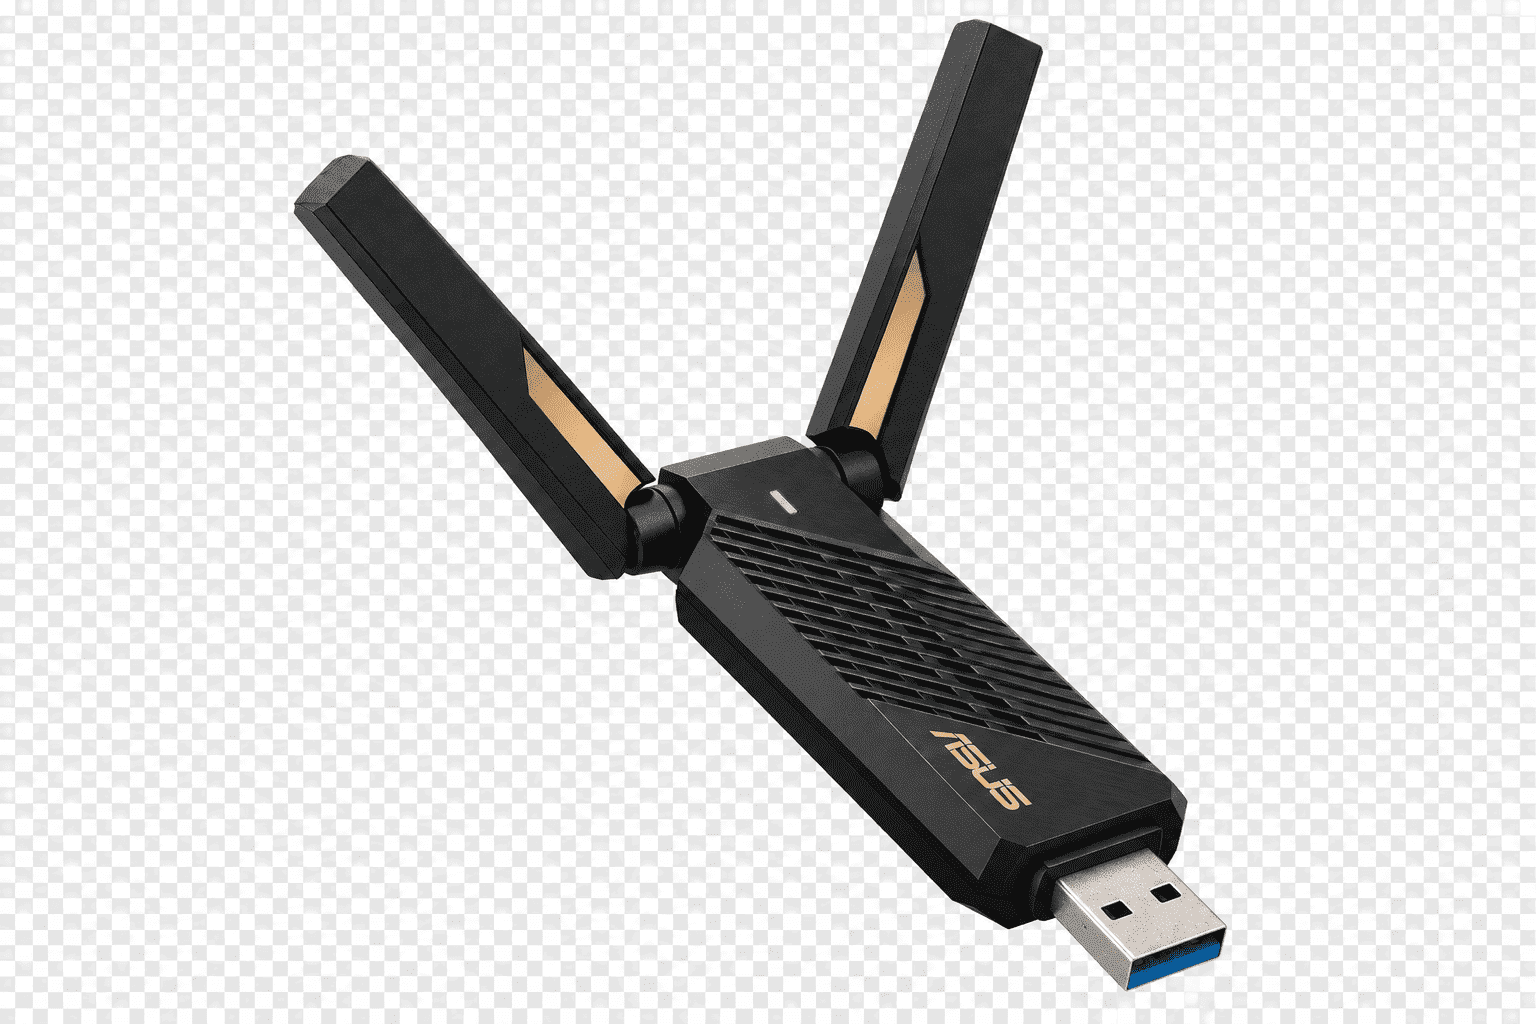
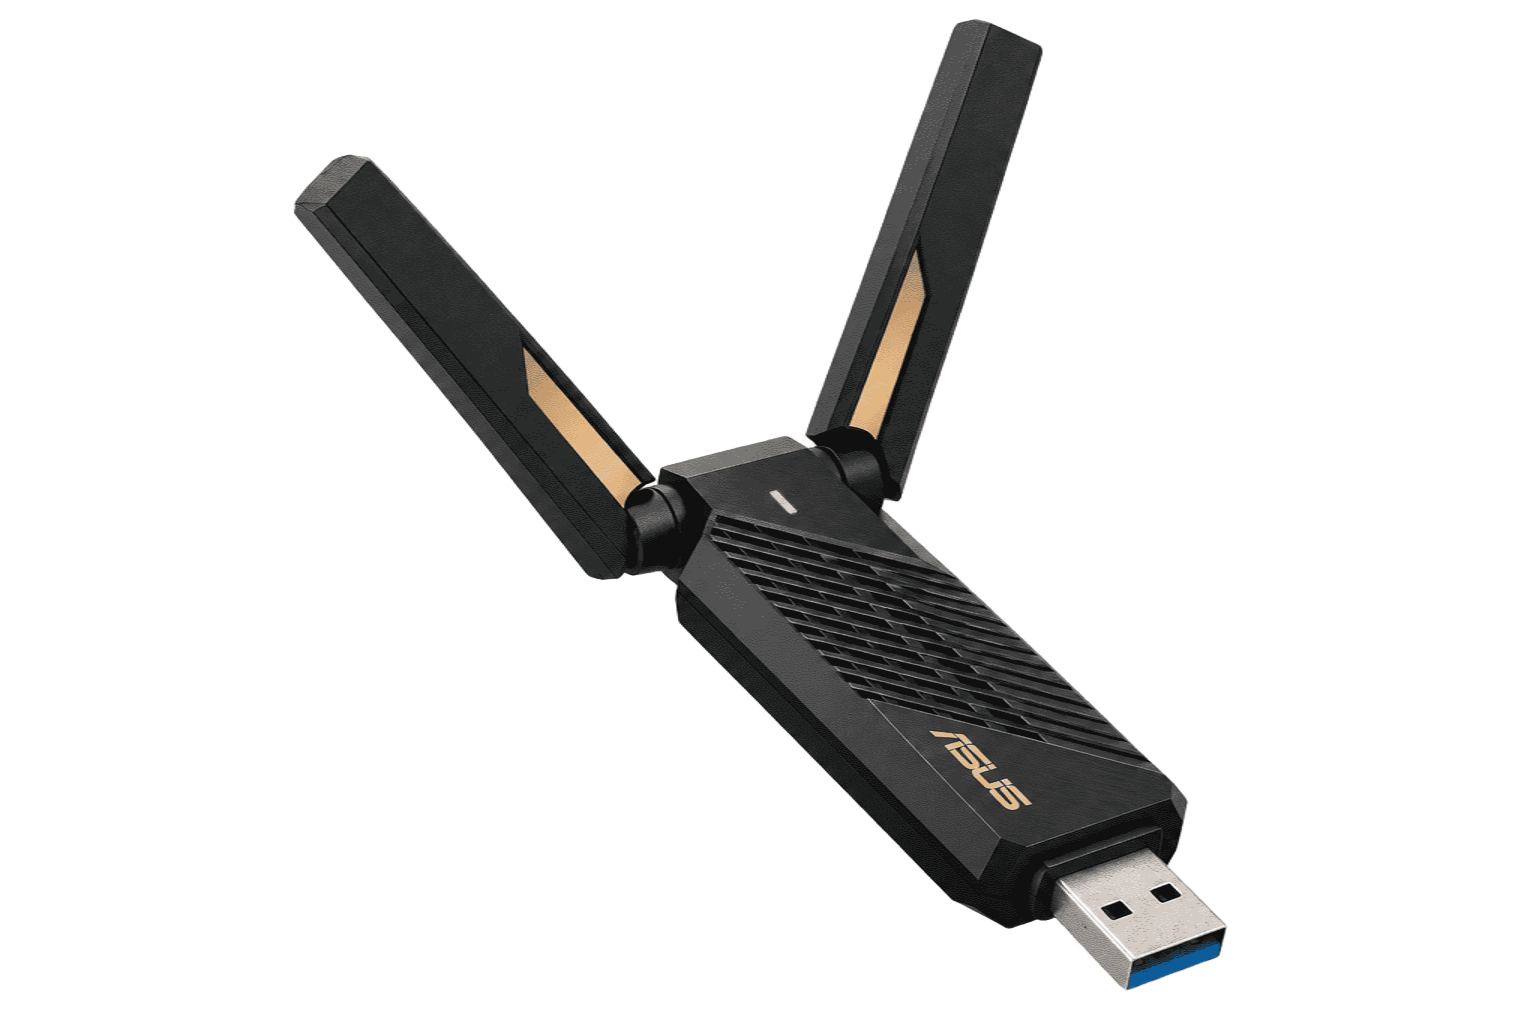
Se modifican imagenes sin fondo

Changed region(s): [[0.0, 0.0, 1.0, 1.0], [0.625, 0.7188, 0.6562, 0.7812]]

diff --git a/catalogo/utils/productos.js b/catalogo/utils/productos.js
@@ -14,8 +14,8 @@ const product1 = {
     descripcion: "Procesador de 6 núcleos y 12 hilos con arquitectura Zen 4 (3.8 GHz a 5.1 GHz), TDP de 65 W, caché L3 de 32 MB y gráficos Radeon integrados.",
     imagenes: [
         "/res/productos/Procesador AMD Ryzen 5 7600 [AMD] VF.png",
-        "/res/productos/",
-        "/res/productos/"
+        "/res/productos/Procesador AMD Ryzen 5 7600 [AMD] VL.png",
+        "/res/productos/Procesador AMD Ryzen 5 7600 [AMD] VP.png"
     ],
     marca: "AMD",
     modelo: "Ryzen 5 7600 (100-100001015BOX)",
@@ -32,8 +32,8 @@ const product2 = {
     descripcion: "Tarjeta gráfica con 8 GB GDDR6, 3,072 núcleos CUDA y compatibilidad con DLSS 3. Sistema de ventilación Axial-tech y modo 0dB.",
     imagenes: [
         "/res/productos/Tarjeta de video ASUS Dual GeForce RTX 4060 8GB [ASUS] VF.png",
-        "/res/productos/",
-        "/res/productos/"
+        "/res/productos/Tarjeta de video ASUS Dual GeForce RTX 4060 8GB [ASUS] VL.png",
+        "/res/productos/Tarjeta de video ASUS Dual GeForce RTX 4060 8GB [ASUS] VP.png"
     ],
     marca: "ASUS",
     modelo: "Dual GeForce RTX 4060 8GB (DUAL-RTX4060-8G)",
@@ -49,8 +49,8 @@ const product3 = {
     descripcion: "Módulo DDR5 a 5,200 MT/s con disipador térmico de perfil bajo. Soporta perfiles de overclocking Intel XMP 3.0 y AMD EXPO.",
     imagenes: [
         "/res/productos/Memoria RAM Kingston FURY Beast 16GB DDR5 [Kingston] VF.png",
-        "/res/productos/",
-        "/res/productos/"
+        "/res/productos/Memoria RAM Kingston FURY Beast 16GB DDR5 [Kingston] VL.png",
+        "/res/productos/Memoria RAM Kingston FURY Beast 16GB DDR5 [Kingston] VP.png"
     ],
     marca: "Kingston",
     modelo: "FURY Beast 16GB DDR5 (KF552C40BB-16)",
@@ -66,8 +66,8 @@ const product4 = {
     descripcion: "Ventilador PWM de 120 mm con velocidad de 550 a 2,100 rpm, iluminación RGB de 8 LEDs y modo Zero RPM para operación silenciosa.",
     imagenes: [
         "/res/productos/Corsair_AF120_vista_frontal.png",
-        "/res/productos/",
-        "/res/productos/"
+        "/res/productos/Corsair_AF120_vista_lateral.png",
+        "/res/productos/Corsair_AF120_vista_90 (1).png"
     ],
     marca: "Corsair",
     modelo: "AF120 RGB Elite (CO-9050153-WW)",
@@ -84,8 +84,8 @@ const product5 = {
     descripcion: "Unidad NVMe PCIe Gen4 x4 con velocidades de hasta 3,500 MB/s de lectura y 2,200 MB/s de escritura. Incluye disipador de calor.",
     imagenes: [
         "/res/productos/SSD ADATA LEGEND 800 1TB [ADATA] VF.png",
-        "/res/productos/",
-        "/res/productos/"
+        "/res/productos/SSD ADATA LEGEND 800 1TB [ADATA] VL.png",
+        "/res/productos/SSD ADATA LEGEND 800 1TB [ADATA] VP.png"
     ],
     marca: "ADATA",
     modelo: "LEGEND 800 1TB (ALEG-800-1000GCS)",
@@ -101,8 +101,8 @@ const product6 = {
     descripcion: "Módulo interno M.2 2230 con Wi-Fi 6E (banda de 6 GHz), velocidad de hasta 2.4 Gbps y Bluetooth integrado.",
     imagenes: [
         "/res/productos/Intel AX210 Wireless Module (1).png",
-        "/res/productos/",
-        "/res/productos/"
+        "/res/productos/Intel AX210 M.2 Card Side Profile (1).png",
+        "/res/productos/Intel AX210 Wireless Card Product Shot (1).png"
     ],
     marca: "Intel",
     modelo: "Wi-Fi 6E AX210 (AX210.NGWG.NV)",
@@ -119,8 +119,8 @@ const product7 = {
     descripcion: "Mouse Bluetooth ambidiestro ultra delgado con clics silenciosos, switch para 3 dispositivos y batería de hasta 24 meses de duración.",
     imagenes: [
         "/res/productos/Centered Graphite Wireless Mouse.png",
-        "/res/productos/",
-        "/res/productos/"
+        "/res/productos/Graphite Wireless Mouse Profile.png",
+        "/res/productos/Matte Graphite Logitech Wireless Mouse.png"
     ],
     marca: "Logitech",
     modelo: "Pebble Mouse 2 M350s",
@@ -136,8 +136,8 @@ const product8= {
     descripcion: "Teclado compacto inalámbrico con retroiluminación inteligente de proximidad, teclas esféricas PerfectStroke y carga por USB-C.",
     imagenes: [
         "/res/productos/Compact Spanish Layout Keyboard.png",
-        "/res/productos/",
-        "/res/productos/"
+        "/res/productos/Low-Profile Mechanical Keyboard Side Profile.png",
+        "/res/productos/Graphite Spanish Layout Wireless Keyboard.png"
     ],
     marca: "Logitech",
     modelo: "MX Keys Mini (920-010499)",
@@ -153,8 +153,8 @@ const product9= {
     descripcion: "Pantalla secundaria portátil Full HD IPS con tratamiento antibacterial, filtro de luz azul y conexión híbrida USB-C/USB-A.",
     imagenes: [
         "/res/productos/ASUS ZenScreen Portable Monitor Mockup (2).png",
-        "/res/productos/",
-        "/res/productos/"
+        "/res/productos/Portable Monitor with Origami Stand.png",
+        "/res/productos/ASUS ZenScreen Portable Monitor Studio Shot (2).png"
     ],
     marca: "ASUS",
     modelo: "ZenScreen MB16ACV",
@@ -170,8 +170,8 @@ const product10 = {
     descripcion: "Adaptador USB dual band WiFi 6 que ofrece hasta 1,800 Mbps de velocidad general con soporte para Beamforming y cifrado WPA3.",
     imagenes: [
         "/res/productos/ASUS Dual-Antenna Wi‑Fi Adapter.png",
-        "/res/productos/",
-        "/res/productos/"
+        "/res/productos/Vertical Black USB Wi‑Fi Adapter with Antenna.png",
+        "/res/productos/ASUS Dual-Antenna Wi‑Fi Adapter (1).png"
     ],
     marca: "ASUS",
     modelo: "USB-AX56 (AX1800)",
@@ -187,8 +187,8 @@ const product11 = {
     descripcion: "Disco portátil ultra resistente con protección contra agua y polvo IP68, carcasa de triple capa a prueba de golpes y sensor de impacto.",
     imagenes: [
         "/res/productos/Disco duro externo ADATA HD710 Pro 2TB [ADATA] VF.png",
-        "/res/productos/",
-        "/res/productos/"
+        "/res/productos/Disco duro externo ADATA HD710 Pro 2TB [ADATA] VL.png",
+        "/res/productos/Disco duro externo ADATA HD710 Pro 2TB [ADATA] VP.png"
     ],
     marca: "ADATA",
     modelo: "HD710 Pro 2TB",
@@ -204,8 +204,8 @@ const product12 = {
     descripcion: "Memoria USB 3.2 Gen 1 liviana con capuchón protector y argolla grande para llavero. Ideal para transferencia rápida de datos.",
     imagenes: [
         "/res/productos/Memoria USB Kingston DataTraveler Exodia 128GB [Kingston] Vf.png",
-        "/res/productos/",
-        "/res/productos/"
+        "/res/productos/Memoria USB Kingston DataTraveler Exodia 128GB [Kingston] VL.png",
+        "/res/productos/Memoria USB Kingston DataTraveler Exodia 128GB [Kingston] VP.png"
     ],
     marca: "Kingston",
     modelo: "DataTraveler Exodia 128GB (DTX/128GB)",
@@ -221,8 +221,8 @@ const product13 = {
     descripcion: "Router WiFi 6 doble banda AX1800 con tecnologías OFDMA y MU-MIMO, protección AiProtection de Trend Micro y soporte ASUS AiMesh.",
     imagenes: [
         "/res/productos/ASUS Black Router with Four Antennas (1).png",
-        "/res/productos/",
-        "/res/productos/"
+        "/res/productos/Modern Black Wi‑Fi Router with Antenna.png",
+        "/res/productos/ASUS_router_2 (1).png"
     ],
     marca: "ASUS",
     modelo: "RT-AX55 (AX1800)",
@@ -239,8 +239,8 @@ const product14 = {
     descripcion: "Teclado de tamaño completo con interruptores mecánicos táctiles, teclas de PBT y prevención de efecto fantasma en 6 teclas.",
     imagenes: [
         "/res/productos/Teclado mecánico Logitech G413 SE  VF.png",
-        "/res/productos/",
-        "/res/productos/"
+        "/res/productos/Teclado mecánico Logitech G413 SE  VL.png",
+        "/res/productos/Teclado mecánico Logitech G413 SE  VP.png"
     ],
     marca: "Logitech",
     modelo: "G413 SE (920-010433)",
@@ -256,8 +256,8 @@ const product15 = {
     descripcion: "Mouse gamer con sensor HERO 25K (200-25,600 DPI), iluminación RGB y 11 botones programables. Incluye 5 pesas ajustables de 3.6 g.",
     imagenes: [
         "/res/productos/Mouse gamer Logitech G502 HERO [Logitech G] VF.png",
-        "/res/productos/",
-        "/res/productos/"
+        "/res/productos/Mouse gamer Logitech G502 HERO [Logitech G] VL.png",
+        "/res/productos/Mouse gamer Logitech G502 HERO [Logitech G] VP.png"
     ],
     marca: "Logitech",
     modelo: "G502 HERO (910-005469)",
@@ -273,8 +273,8 @@ const product16 = {
     descripcion: "Monitor gamer Full HD con frecuencia de 165 Hz (overclock), Extreme Low Motion Blur, FreeSync Premium y 1 ms de respuesta.",
     imagenes: [
         "/res/productos/Monitor ASUS TUF Gaming VG249Q1A 23.8  [ASUS] VF.png",
-        "/res/productos/",
-        "/res/productos/",
+        "/res/productos/Monitor ASUS TUF Gaming VG249Q1A 23.8  [ASUS] VL.png",
+        "/res/productos/Monitor ASUS TUF Gaming VG249Q1A 23.8  [ASUS] VP.png",
     ],
     marca: "ASUS",
     modelo: "TUF Gaming VG249Q1A",
@@ -290,8 +290,8 @@ const product17 = {
     descripcion: "Cámara Full HD 1080p a 30 fps con lente de vidrio de 5 elementos, campo de visión de 78°, enfoque automático y sonido estéreo.",
     imagenes: [
         "/res/productos/Webcam Logitech C920 HD Pro [Logitech] VF.png",
-        "/res/productos/",
-        "/res/productos/",
+        "/res/productos/Webcam Logitech C920 HD Pro [Logitech] VL.png",
+        "/res/productos/Webcam Logitech C920 HD Pro [Logitech] VP.png",
     ],
     marca: "Logitech",
     modelo: "C920 HD Pro (960-001055)",
@@ -307,8 +307,8 @@ const product18 = {
     descripcion: "Audífonos livianos (273 g) con transductores de 50 mm, almohadillas de memoria y micrófono abatible omnidireccional certificado por Discord.",
     imagenes: [
         "/res/productos/Black Gaming Headset Product Shot.png",
-        "/res/productos/",
-        "/res/productos/"
+        "/res/productos/Black Corsair Gaming Headset Profile.png",
+        "/res/productos/Corsair Black Gaming Headset Product Shot.png"
     ],
     marca: "Corsair",
     modelo: "HS55 Stereo (CA-9011260)",
@@ -324,8 +324,8 @@ const product19 = {
     descripcion: "Sistema de altavoces 2.1 de 25 W RMS con subwoofer compacto y sección de control cableada para ajustar el volumen y conectar audífonos.",
     imagenes: [
         "/res/productos/Logitech Speaker System Product Shot.png",
-        "/res/productos/",
-        "/res/productos/"
+        "/res/productos/Minimalist Black 2.1 Speaker System.png",
+        "/res/productos/Logitech 2.1 Speaker System Studio Shot.png"
     ],
     marca: "Logitech",
     modelo: "Z313 (980-000413)",
@@ -341,8 +341,8 @@ const product20 = {
     descripcion: "Micrófono dinámico USB con patrón supercardioide, tecnología Smart Audio Lock contra saturaciones e iluminación RGB LIGHTSYNC.",
     imagenes: [
         "/res/productos/Centered Black USB Microphone with RGB Glow.png",
-        "/res/productos/",
-        "/res/productos/"
+        "/res/productos/Modern Black Microphone with RGB Glow.png",
+        "/res/productos/RGB G-Series Microphone Studio Render.png"
     ],
     marca: "Logitech G",
     modelo: "Yeti GX (988-000569)",
